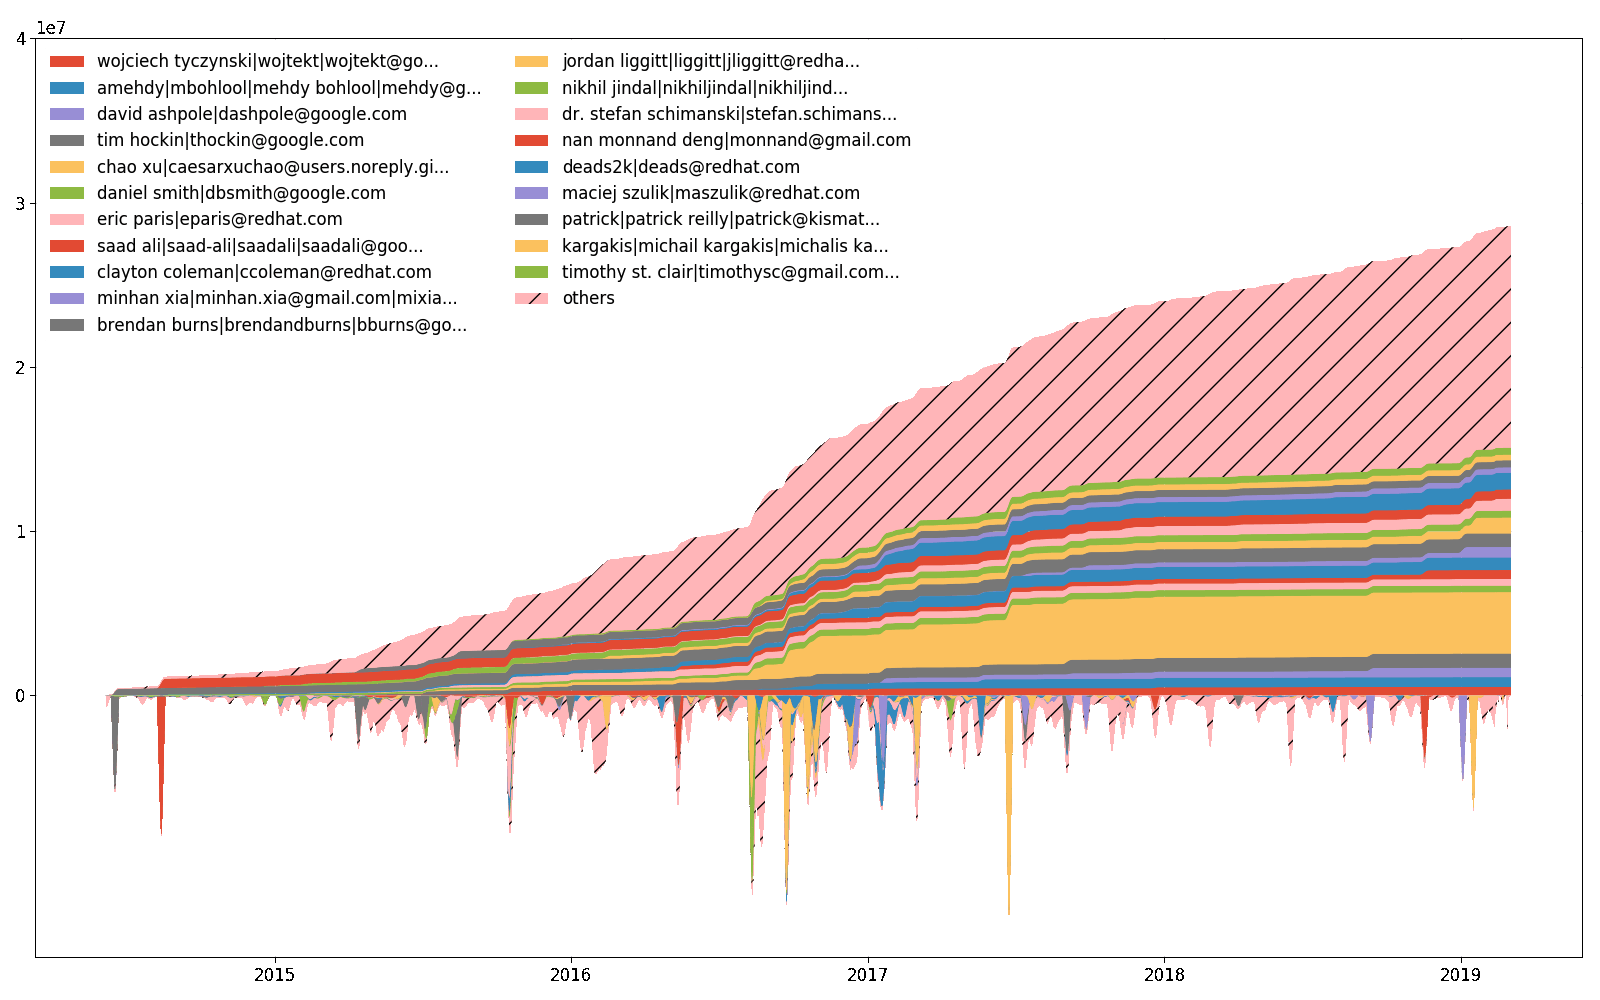
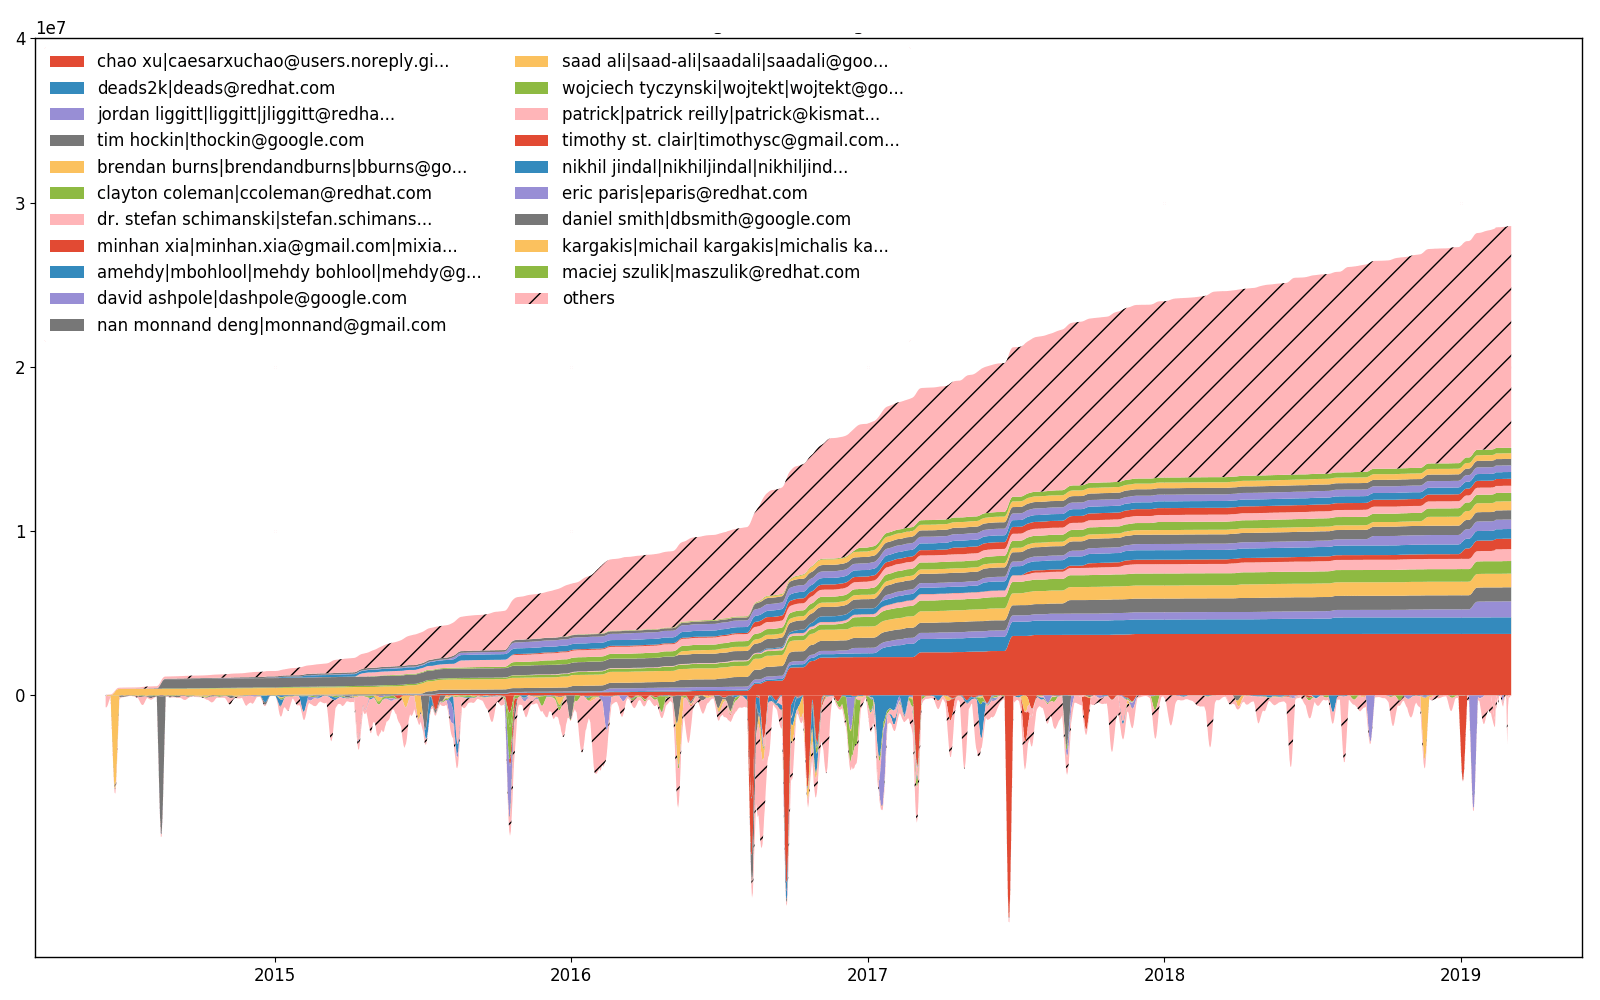
Fix the bug in devs-efforts ordering

diff --git a/labours.py b/labours.py
@@ -1446,8 +1446,8 @@ def show_devs_efforts(args, name, start_date, end_date, people, days, max_people
         for dev, stats in devs.items():
             efforts_by_dev[dev] += stats.Added + stats.Removed + stats.Changed
     if len(efforts_by_dev) > max_people:
-        efforts_by_dev = sorted(((v, k) for k, v in efforts_by_dev.items()), reverse=True)
-        chosen = {v for k, v in efforts_by_dev[:max_people]}
+        chosen = {v for k, v in sorted(
+            ((v, k) for k, v in efforts_by_dev.items()), reverse=True)[:max_people]}
         print("Warning: truncated people to the most active %d" % max_people)
     else:
         chosen = set(efforts_by_dev)
